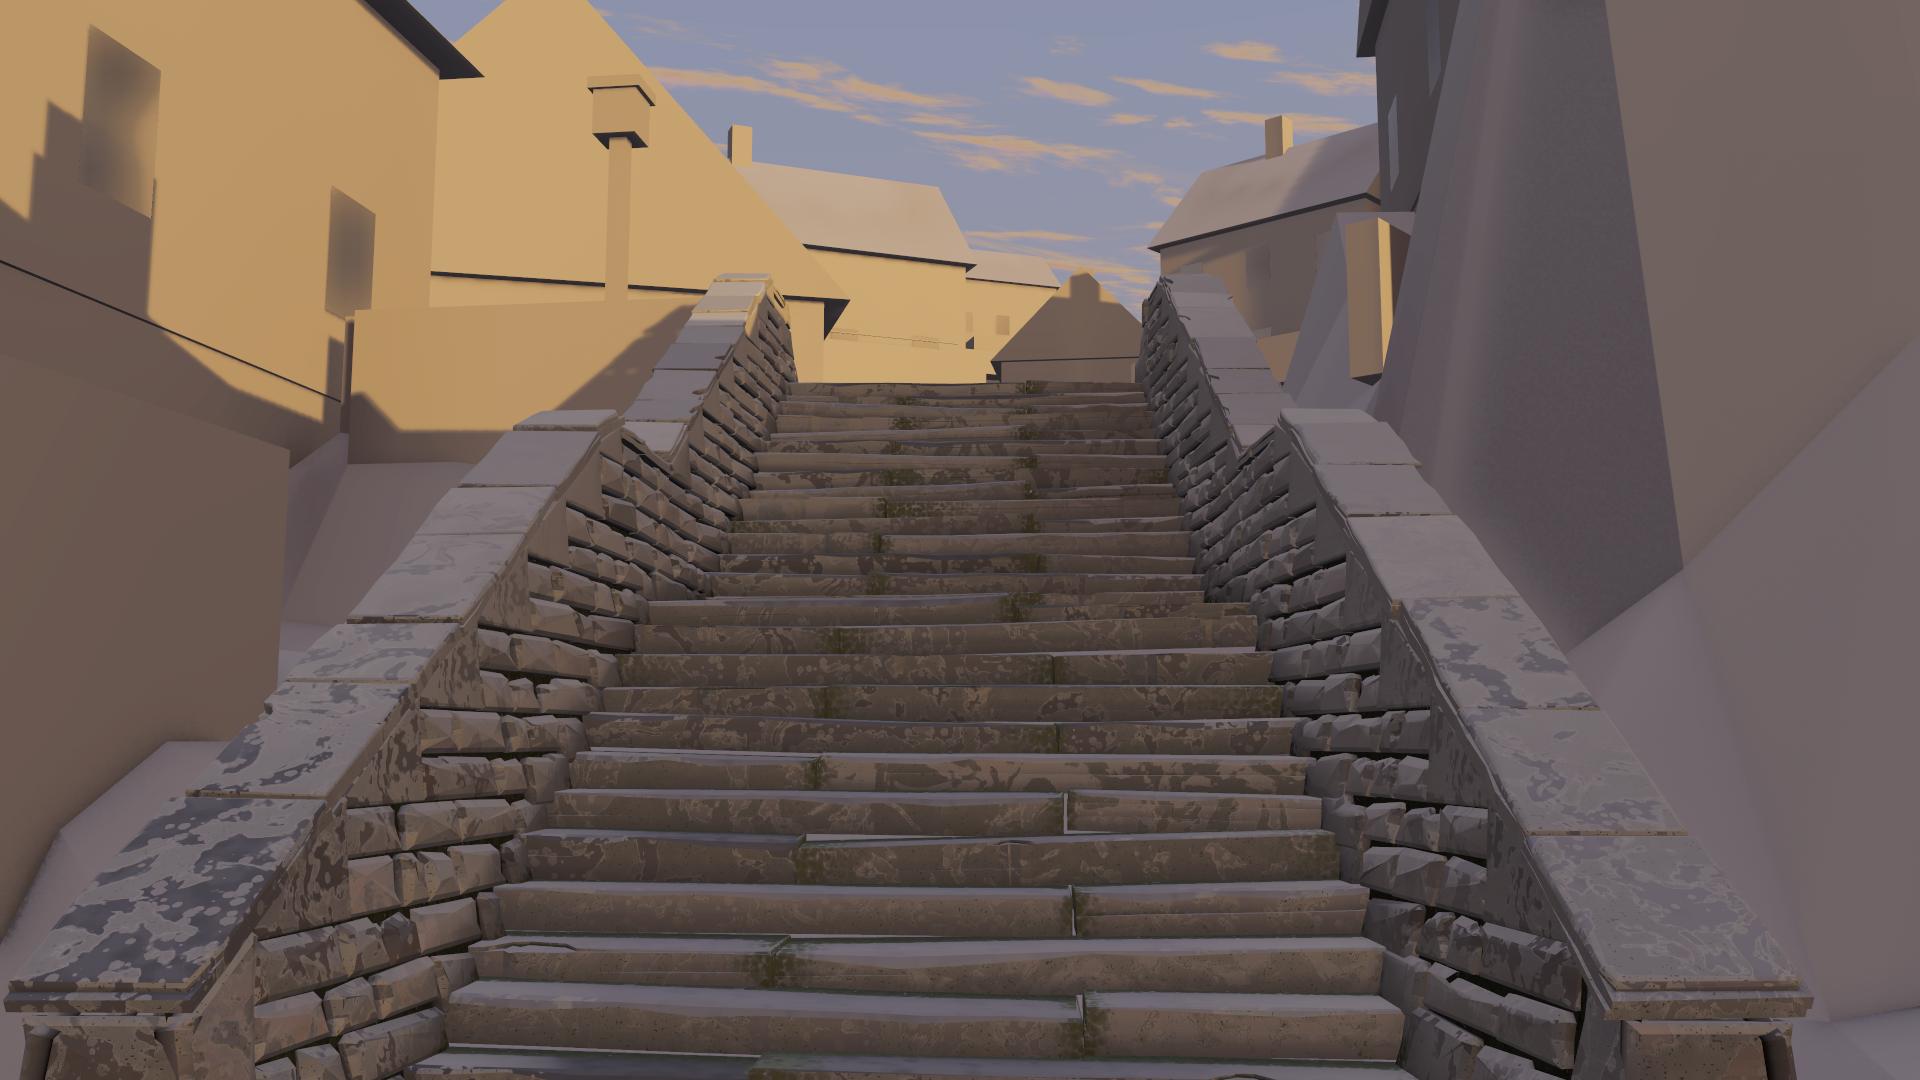
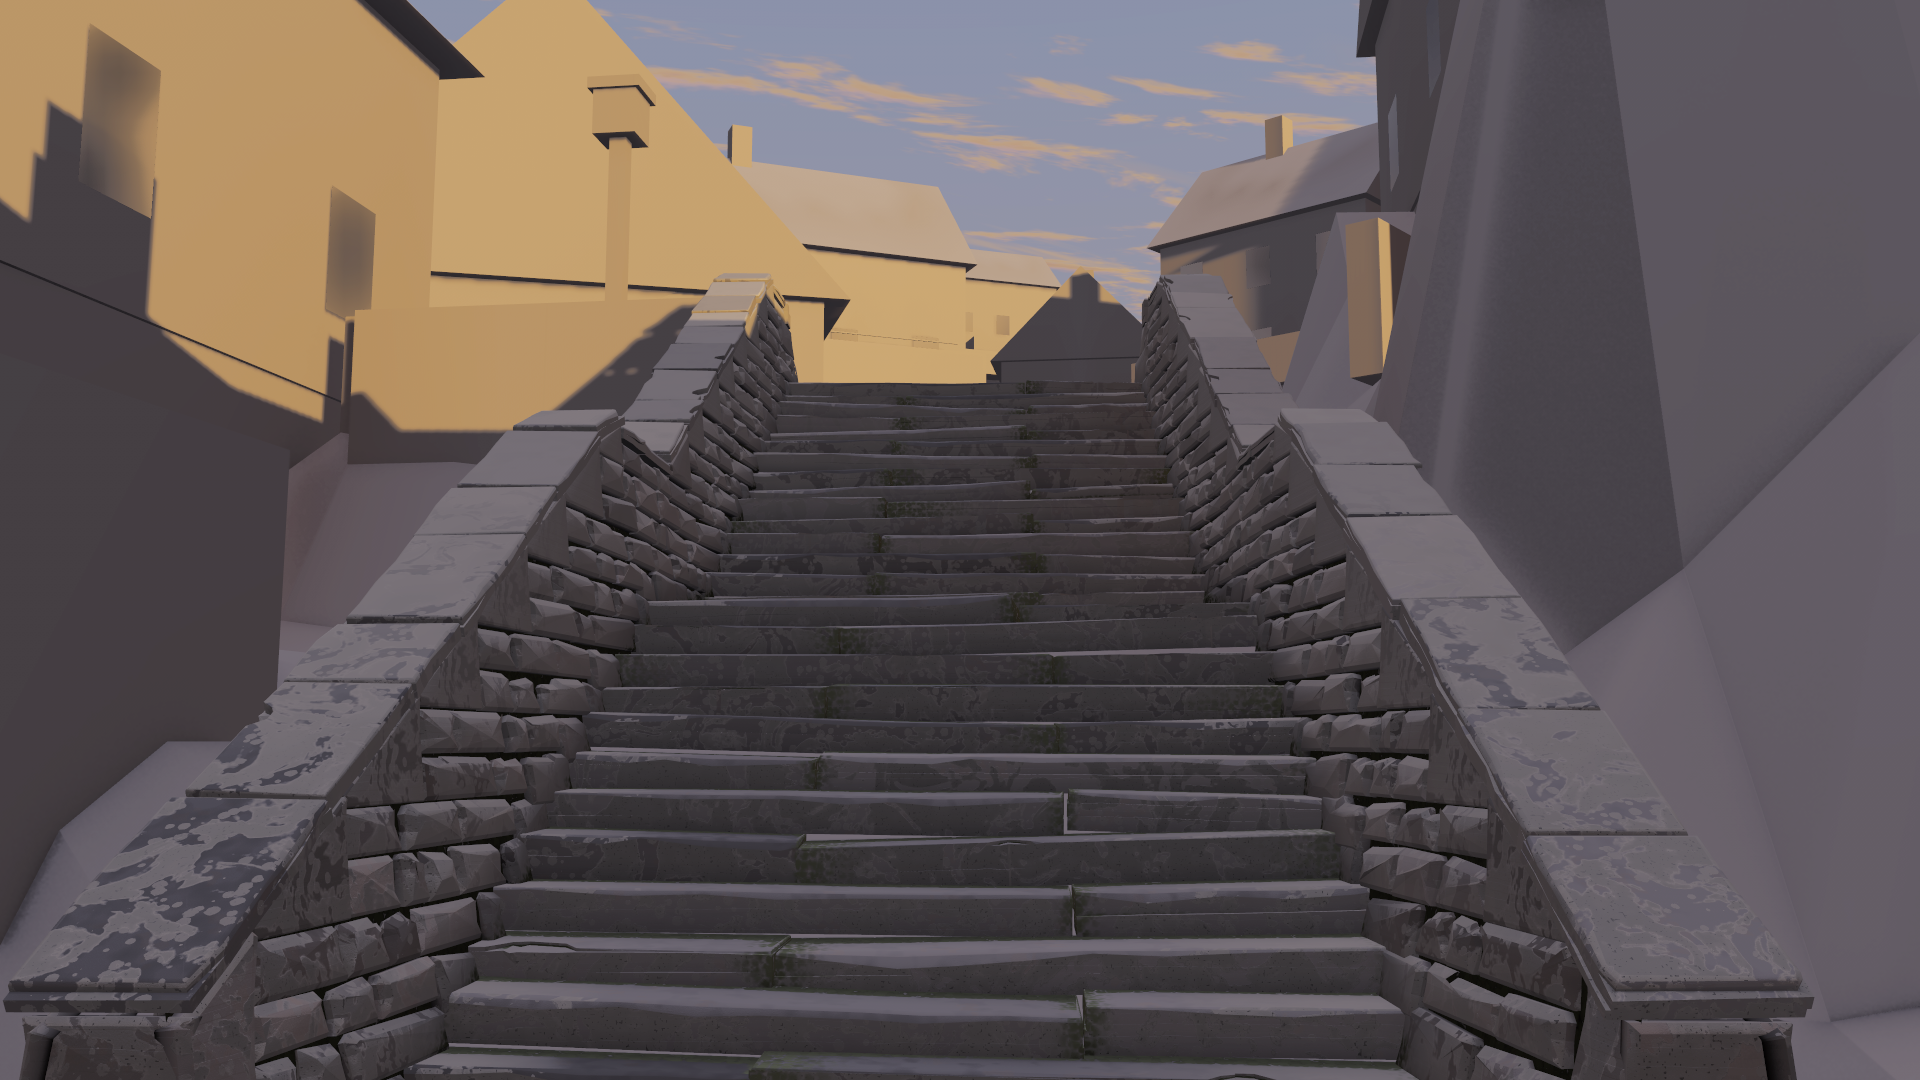
LT1: light third round: shade in low sun takes the horizon's own colour, the strict review passes; README and Now

diff --git a/NOW.md b/NOW.md
@@ -4,7 +4,7 @@ What is running and what is next, under about 1,100 words. The order, the boxes 
 
 **From 23 October: make, look, fix** (`CLAUDE.md`, How work runs; Øystein: "i do not want to spend all my money on admin"). From Monday every build runs that way, starting with R2b: one still of the wall stone beside reference 10, fixed until it reads as split stone, before any measuring.
 
-**Next job: the walked corner's first pass** (Øystein, 26 October: "should we not try to complete a version of each element"; "I only require work of the highest quality"). Every element the target frames show, each at the full bar and judged together against the targets, one short make, look, fix session at a time: the light and grade first (1c), then the houses' materials, the ground (setts, kerbs, paving, edges), and the lamps. Each is built through the real pipeline (data, history maps, a quick distance check), with the frame rate checked after each. Trees, people, the full motion and level sets, the town count and the port steps 4 to 7 and R3 to R7 wait until the corner reads. The gully's stone is at v1 (`9600ac4`). When the four are in, one strict review of the whole corner against the targets names what each element needs, worst first, and a short round per element follows in that order; the stair's open points wait for it (the lichen's patches on the copings, its value and busyness at distance, the walls' share of the triangle budget, getting it into the app). Øystein, 26 October: "maybe we can do that at the end? Like a review per element?" The light's first pass (`15ebaef`, `reviews/lt1/light/first-pass/`) failed its strict review: blue hour needs a sky gradient and fog that layers with depth, then low sun's high clouds and drizzle's warm cast; the frame time waits for Øystein's Mac.
+**Next job: the walked corner's first pass** (Øystein, 26 October: "should we not try to complete a version of each element"; "I only require work of the highest quality"). Every element the target frames show, each at the full bar and judged together against the targets, one short make, look, fix session at a time: the light and grade first (1c), then the houses' materials, the ground (setts, kerbs, paving, edges), and the lamps. Each is built through the real pipeline (data, history maps, a quick distance check), with the frame rate checked after each. Trees, people, the full motion and level sets, the town count and the port steps 4 to 7 and R3 to R7 wait until the corner reads. The gully's stone is at v1 (`9600ac4`). When the four are in, one strict review of the whole corner against the targets names what each element needs, worst first, and a short round per element follows in that order; the stair's open points wait for it (the lichen's patches on the copings, its value and busyness at distance, the walls' share of the triangle budget, getting it into the app). Øystein, 26 October: "maybe we can do that at the end? Like a review per element?" The light (1c) passed its strict review in its third round (`reviews/lt1/light/first-pass/README.md`, stills in `reviews/lt1/light/third-round/`). The fog lights fell from 19 ms to under 2 ms offscreen, but blue hour and drizzle are still over 16.7 ms offscreen (the fog bank's march and the scene), and the full-screen walk waits for Øystein's Mac. The houses' materials are next.
 
 ## Where we are (22 October)
 

diff --git a/reviews/lt1/light/first-pass/README.md b/reviews/lt1/light/first-pass/README.md
@@ -60,3 +60,14 @@ What the terms cost (offscreen, at the foot and the street stop):
 - The sky: 1 to 2 ms. The four full-screen passes by day: 3 to 5 ms.
 
 The golden baselines change with the light and need re-blessing.
+
+## Third round (27 October)
+
+Stills in `../third-round/`, from the same cameras in the same moments. 26 views (52 stills with their grey) were rendered in 9 Unity runs, plus one timing run.
+- **Low sun (1):** the clear zenith the model gives was blue enough; the style's pass greyed it. The colour ramp and the chroma drain now act only on what the light falls on, weighed by how much of it the air hides, so the sky and the air's light over far walls keep the light's colour. Clear low sun takes a small `sky.zenith` push (dC 0.05, dh −6). The cirrus gathers in uneven fields, with the streaks' width varying over the sky. In light-derive-3, each march step integrates its own extinction.
+- **Far air (2):** `air` is pushed +0.9 stops under overcast and `fog` +0.7 in the fog rows (`keys.json`), so drizzle's houses part by distance and the bank lifts the far gully 6 L* at blue hour.
+- **Blue-hour dome (3):** the cloud base is lit from below by the lamps' light to the sky: the share sent up, and of the rest what the wet ground gives back through the street's open share. It is spread over the base as from a face turned up, at the cloud kind's albedo (new in the pack), on a coarse map from `TownLights`, and replaces a typed ×3. At 17:50 under the fog it adds a few per cent. Away from the gully the target's sky is flat (L* 39 to 40); its lift over the gully is the lanterns' glow.
+- **Fog lights (4):** the lamps are culled to each camera's view, and the halos are drawn at a quarter of the pixels with a composite that minds the rays' lengths (`FogLightsFeature`). They are within 5/255 of the old pass on every pixel. Offscreen in the editor, with no window (`reviews/perf/2026-10-26/light-r3-foglights.md`), the pass went from 19.0–19.5 ms to 1.6–1.7 ms, and a blue-hour frame from 44–47 ms to 26–30 ms. The old pass stays as the A/B arm `foglights-full`.
+- **Shade in low sun:** the bright sky round the sun is hidden by whatever hides the sun (`OS_SkyFor`), so a wall in cast shadow takes the horizon's own lilac, not the sun side's amber. After sunset the sun side's glow is a wide arch that no shadow hides, so this applies only while the sun is up (as the sky's own `sunUp`).
+- **Still over 16.7 ms:** blue hour is now about 2 ms dearer than with no halos at all. What is left is the fog bank's march (9 to 11 ms in round 2) and the scene itself, since drizzle is 23 to 28 ms offscreen too. The full-screen walk is still owed.
+- **Strict review (Fable):** blue hour and drizzle pass. Low sun failed on warm shade under a lilac sky and passed after the fix. To watch: the shade sits a touch heavy against the pale ground. Minor, for the ensemble: the cirrus's colour should vary with its bearing to the sun; the clear zenith should deepen away from the sun; drizzle's overcast reads as horizontal smears; blue hour's sky and fog are cleaner and bluer than the target's dusty violet.
